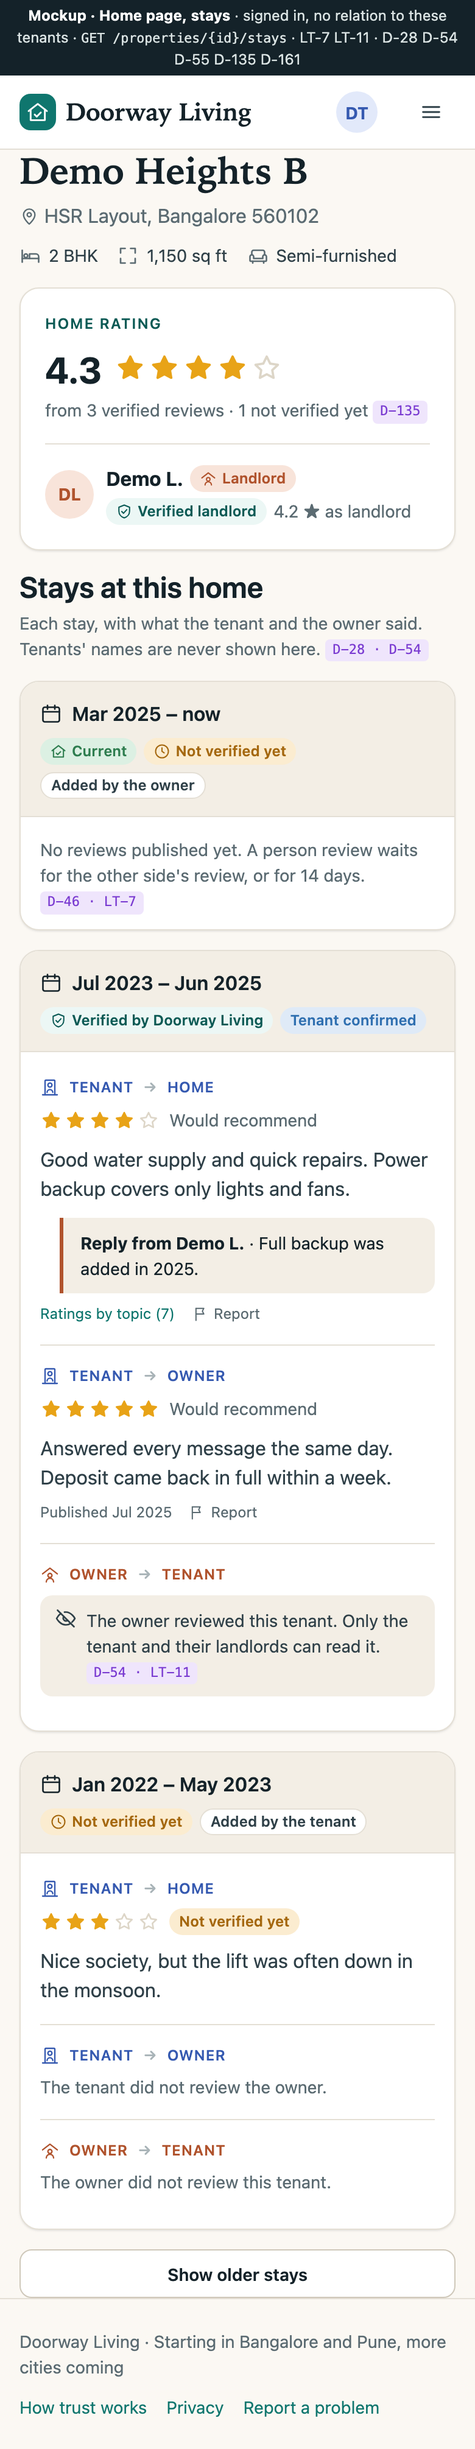
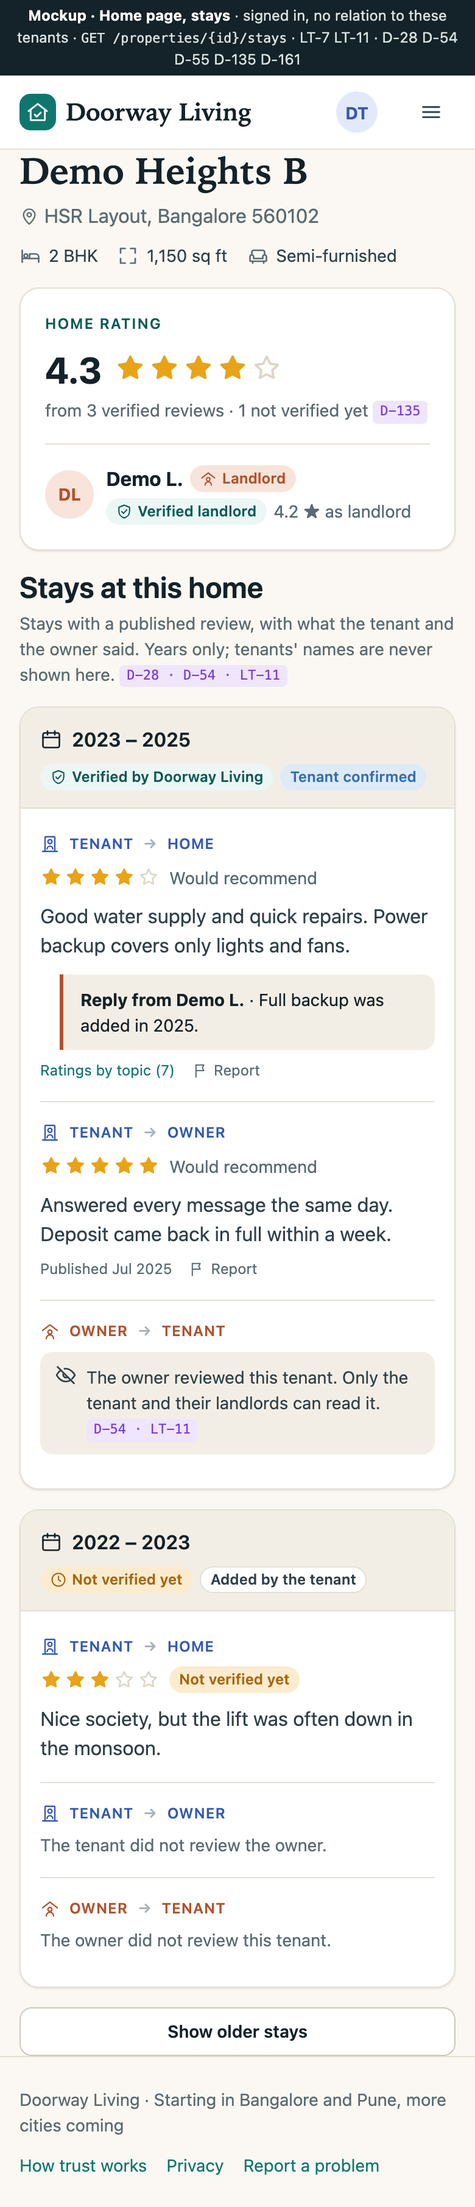
no-mistakes(review): Optional dates, signed-in stays, frozen not-me contact

diff --git a/rentrix-docs/design/mockups/lat-home-stays.html b/rentrix-docs/design/mockups/lat-home-stays.html
@@ -49,20 +49,12 @@
   <section id="reviews" class="stack">
     <div>
       <h2 class="h2">Stays at this home</h2>
-      <p class="small muted" style="margin-top:4px">Each stay, with what the tenant and the owner said. Tenants' names are never shown here. <span class="spec">D-28 · D-54</span></p>
+      <p class="small muted" style="margin-top:4px">Stays with a published review, with what the tenant and the owner said. Years only; tenants' names are never shown here. <span class="spec">D-28 · D-54 · LT-11</span></p>
     </div>
 
     <div class="card stay">
       <div class="stay-h">
-        <div class="when"><i data-icon="calendar" data-size="18"></i>Mar 2025 – now</div>
-        <div class="row" style="gap:6px"><span class="badge badge-success"><i data-icon="tenancy"></i>Current</span><span class="badge badge-warn"><i data-icon="clock"></i>Not verified yet</span><span class="badge badge-plain">Added by the owner</span></div>
-      </div>
-      <div class="stay-b"><p class="none" style="margin-top:12px">No reviews published yet. A person review waits for the other side's review, or for 14 days. <span class="spec">D-46 · LT-7</span></p></div>
-    </div>
-
-    <div class="card stay">
-      <div class="stay-h">
-        <div class="when"><i data-icon="calendar" data-size="18"></i>Jul 2023 – Jun 2025</div>
+        <div class="when"><i data-icon="calendar" data-size="18"></i>2023 – 2025</div>
         <div class="row" style="gap:6px"><span class="badge badge-verified"><i data-icon="shield-check"></i>Verified by Doorway Living</span><span class="badge badge-info">Tenant confirmed</span></div>
       </div>
       <div class="stay-b">
@@ -88,7 +80,7 @@
 
     <div class="card stay">
       <div class="stay-h">
-        <div class="when"><i data-icon="calendar" data-size="18"></i>Jan 2022 – May 2023</div>
+        <div class="when"><i data-icon="calendar" data-size="18"></i>2022 – 2023</div>
         <div class="row" style="gap:6px"><span class="badge badge-warn"><i data-icon="clock"></i>Not verified yet</span><span class="badge badge-plain">Added by the tenant</span></div>
       </div>
       <div class="stay-b">

diff --git a/rentrix-docs/design/landlord-adds-tenant.md b/rentrix-docs/design/landlord-adds-tenant.md
@@ -11,14 +11,14 @@ Decisions proposed here are labelled **LT-1 … LT-12**. Each build PR records t
 
 ## 0. v1 in short
 
-1. An owner adds a tenant to a home they own, at "I own it" or later from the home. Every field is optional: name, email, phone, rent, and (last slice) the dates.
+1. An owner adds a tenant to a home they own, at "I own it" or later from the home. Every field is optional: name, email, phone, dates and rent (from slice S3 on).
 2. The tenancy stands at once (`ACTIVE` or `ENDED`), one-sided, "Not verified yet", as rule B already decided for both sides (D-149).
 3. The email and phone are private. They are used only to link the tenancy to the tenant's account by a **verified** email or phone. The phone is stored only as an HMAC (`ID_HASH_KEY`). The owner never learns whether a link happened.
 4. No account matches? The tenancy keeps `tenant_id = NULL`: that is the **unclaimed tenant**. The tenant claims it later by signing in with that email or by verifying that phone.
 5. The owner reviews the tenant with the existing review form: a new `tenant` part, `LANDLORD_TO_TENANT`, with 5 parameters.
 6. A review about a tenant goes public only when the tenant stands behind the tenancy: they added it, confirmed it, or the team verified it. Then the double-blind reveal of D-46 runs as today.
 7. The tenant profile (`/u/:id`, tenant side) shows the tenant's rating, parameter averages and the reviews from owners, to the people D-54 allows.
-8. The home page gets one "Stays at this home" list: per tenancy, the home review, the owner review and the tenant review, each with its existing visibility rule.
+8. The home page gets one "Stays at this home" list for signed-in viewers: per tenancy, the home review, the owner review and the tenant review, each with its existing visibility rule. Outsiders see only stays with a published review, as a year range. Signed-out viewers see no stays, only the home reviews (as today's rent history, which is signed-in only). The two parties of a stay always see it in full.
 
 ---
 
@@ -99,8 +99,8 @@ The captain lists four reviews: tenant → home, tenant → owner, owner → ten
 | G6 | Linking needs the emailed link, which is never delivered | silent match on a verified email or phone, at add and later | `users.email`, `identity_verifications.value_hmac` |
 | G7 | A fake owner could attach reviews to a real person | a tenant review publishes only on a tenancy the tenant stands behind (LT-7) | D-46 job, `confirmed_at`, the tenancy tick |
 | G8 | The same stay recorded twice | `409 tenancy_exists` with the tenancy to confirm instead | `requireHomeFree`, `requireNoOverlap`, confirm |
-| G9 | The home page shows only home reviews | one read, `GET /properties/{id}/stays`, grouped per stay | `ReviewView`, `ProfileAccess.canSeeTenant` |
-| G10 | Dates are required (`start_date NOT NULL`) | last, optional slice: nullable `start_date`, undated rules (LT-12) | the V12 vendor rebuild pattern |
+| G9 | The home page shows only home reviews | one signed-in read, `GET /properties/{id}/stays`, grouped per stay | `ReviewView`, `ProfileAccess.canSeeTenant` |
+| G10 | Dates are required (`start_date NOT NULL`) | in S3: nullable `start_date`, undated rules (LT-12) | the V12 vendor rebuild pattern |
 
 No new review table, aggregate table or system account is needed. The only new columns are four on `tenancies` (§8).
 
@@ -111,7 +111,7 @@ No new review table, aggregate table or system account is needed. The only new c
 ### 4.1 Linking the tenant
 
 ```
- owner adds tenant {name?, email?, phone?, dates, rent?}
+ owner adds tenant {name?, email?, phone?, dates?, rent?}
         │
         ▼
  tenancy ACTIVE / ENDED at once, one-sided, "Not verified yet"     (LT-1)
@@ -123,6 +123,7 @@ No new review table, aggregate table or system account is needed. The only new c
         │                 ├── "Yes, I rented it" ─▶ confirmed_at: "Tenant confirmed",
         │                 │                         TENANT role added, contact cleared
         │                 └── "Not me" ─▶ unlinked again, link_refused_by = user,
+        │                                 contact frozen, never matched again,
         │                                 their reviews here detach                (LT-4)
         └── no match ─▶ tenant_id NULL = unclaimed tenant                          (LT-5)
                           │ later: Google sign-in with that email, or the same phone verified,
@@ -142,7 +143,7 @@ No new review table, aggregate table or system account is needed. The only new c
 | Matched account lacks the `TENANT` role | Linked anyway. The role is added when they answer "Yes, I rented it" (fresh `accessToken`, as `POST /me/homes` does). Until then no tenant profile exists for them (`tenantVisible` needs the role) |
 | The owner typed their own email or phone | `422 invite_self` on the field, as today |
 | Matched account is deleted, suspended or the unclaimed-homes account | Never linked |
-| Wrong person linked | The person answers "Not me" (LT-4). They are never linked to that tenancy again. The owner sees "Not linked yet", the same words as "no match", so the answer reveals nothing |
+| Wrong person linked | The person answers "Not me" (LT-4). The tenancy is then never matched again, and its contact is frozen: the owner cannot point it at another email or phone, so a refused address can never be re-linked to that stay. To try a new contact, the owner deletes the stay and adds a new one (D-35 add limits apply). The owner sees "Not linked yet", the same words as "no match" |
 | Tenant disputes the facts (dates or rent are wrong) | They answer "Yes, I rented it" only if the stay is theirs, then "Report a problem" (`FAKE_TENANCY` or `OTHER`, SYSTEM_DESIGN §8), or ask the owner to edit. No counter-offer flow (D-34) |
 | Tenant declines a correct link to dodge a bad review | The review detaches and waits, unpublished. The owner can upload the rental agreement so the team verifies the tenancy (D-147), but re-linking that tenant needs an admin link tool, which is not in v1 (§12). v1 accepts this gap: wrongly attaching a review to someone is the worse failure |
 
@@ -170,10 +171,10 @@ No one can add a tenant on an unclaimed home: its owner is the system account, s
 
 | Event | Effect |
 |---|---|
-| Owner edits the tenant contact (LT-9) | Allowed while the tenant has not confirmed. A changed email or phone drops an unconfirmed link and matches again. After "Tenant confirmed": `422 tenant_confirmed` on the contact fields |
+| Owner edits the tenant contact (LT-9) | Allowed while the tenant has not confirmed and no one answered "Not me" (`link_refused_by` is NULL). A changed email or phone drops an unconfirmed link and matches again. After "Tenant confirmed": `422 tenant_confirmed` on the contact fields. After "Not me": `422 contact_frozen`; the owner may delete the stay and add a new one |
 | Owner edits dates or rent | D-156 as today: the creator edits, the tick resets, the edit history keeps it |
 | Owner deletes the tenancy | D-156: refused once the tenant confirmed (`409 confirmed_by_other_side`) or reviewed (`409 tenancy_has_reviews`); otherwise `CANCELLED` and the owner's own tenant review is withdrawn |
-| Tenant answers "Not me" | Unlinked; `link_refused_by` set; a review about them on this tenancy gets `subject_user_id = NULL` and waits again; their own reviews on it are withdrawn (they say they never lived there) |
+| Tenant answers "Not me" | Unlinked; `link_refused_by` set, which freezes the contact and stops all later matching on this tenancy; a review about them on this tenancy gets `subject_user_id = NULL` and waits again; their own reviews on it are withdrawn (they say they never lived there) |
 | Tenant deletes their account | D-58 unchanged: tenancies and reviews stay; the tenant shows as "Deleted user" |
 | Owner deletes their account | D-58: the home moves to the unclaimed account; tenancies stay with "Deleted user". New: `tenant_name`, `invite_phone_hmac` and `invite_phone_last4` are cleared with `invite_email`, so an unclaimed tenancy of a deleted owner can never be linked |
 | Admin voids the tenancy | D-36 unchanged: all its reviews leave the aggregates and the stays list |
@@ -189,7 +190,7 @@ No one can add a tenant on an unclaimed home: its owner is the system account, s
 | Tenant name the owner typed | `tenant_name`, ≤ 80 characters | the owner and admins only. The public never sees it; the linked tenant sees "as you were named: …" so they can recognise the stay | as the email |
 | Who matched | `tenant_id` | the linked tenant; the owner only after "Tenant confirmed" (then the tenant's short name, D-28) | — |
 
-- Matching is silent. No answer, status or timing tells the owner whether an email or phone has an account. "Not linked yet" covers no match, two matches and "Not me".
+- Matching is silent. No answer, status or timing tells the owner whether an email or phone has an account. "Not linked yet" covers no match, two matches and "Not me". One exception: after "Not me" a contact edit answers `422 contact_frozen`, so an owner who tries to edit learns that someone refused. v1 accepts this, because it is what stops an owner from re-pointing a stay at a person who refused it.
 - No `ID_HASH_KEY` set: the phone field is hidden, like the Truecaller button (D-138).
 - Logs never hold the typed email or phone; they log the tenancy id only (as D-65 masks recipients).
 - Contact is used only to link (and later to send one invite when `SmtpEmailSender` exists). It is never in a public response, a search, a card or a review (D-57).
@@ -217,16 +218,22 @@ No one can add a tenant on an unclaimed home: its owner is the system account, s
 
 ## 7. What the home page shows
 
-`GET /properties/{id}/stays` (public; LT-11) returns the standing, dated tenancies of the home (`ACTIVE`, `ENDED`; not `CANCELLED` or `VOIDED`), newest first, 20 per page. Each stay is keyed by its period, never by a tenancy id (D-28): `{period, verification, ownerConfirmed, tenantConfirmed, addedBy: OWNER|TENANT, home, owner, tenant, mine}`. Each review is the existing `ReviewView` under its existing rule. The web section "Stays at this home" replaces "What tenants say about the home" and keeps the `#reviews` anchor of D-161.
+`GET /properties/{id}/stays` (signed in only, `401` signed out, as rent history; LT-11) returns the standing tenancies of the home (`ACTIVE`, `ENDED`; not `CANCELLED` or `VOIDED`; undated ones only to their parties), newest first, 20 per page. Each stay is keyed by its period, never by a tenancy id (D-28): `{period, verification, ownerConfirmed, tenantConfirmed, addedBy: OWNER|TENANT, home, owner, tenant, mine}`. Each review is the existing `ReviewView` under its existing rule. The web section "Stays at this home" replaces "What tenants say about the home" for signed-in viewers and keeps the `#reviews` anchor of D-161.
 
-| Viewer | ① home review | ② review of the owner | ③ review of the tenant | Tenant identity |
-|---|---|---|---|---|
-| Signed out | full (D-161) | `{exists}`: "Sign in to read the review of the owner" | `{exists}` only | never |
-| Signed in, no relation | full | full once published (D-55) | `{exists}`: "The owner reviewed this tenant. Only the tenant and their landlords can read it." | never |
-| The stay's tenant | full; "Your review" actions | full; their own review with actions | full once published; while it waits only "A review about you is waiting" (D-46) | themselves |
-| The home's owner | full; reply action | full; reply action | full; "Your review" actions | after "Tenant confirmed": short name |
-| A landlord D-54 allows (an open enquiry from this tenant, or this tenant's landlord elsewhere) | full | full | full | never on the home page; the tenant profile shows it |
-| Admin (admin host only) | full | full | full | full |
+What a viewer sees of the stays themselves (the period is the part that could identify a tenant, §12):
+
+- **The stay's two parties** (its tenant and the home's owner) and admins: every stay they are party to, in full. `period` is month-precise with `current: true` for a running stay ("Mar 2025 – now · Current"). An undated stay shows "Dates not given".
+- **Every other signed-in viewer**: only stays with at least one published review. `period` is a year range `{fromYear, toYear}` ("2023 – 2025"), never a month and never `current`. A running stay shows the current year as `toYear`, so it reads like any stay that ended this year.
+- **Signed out**: no stays list, no periods and no current occupancy. The page keeps today's "What tenants say about the home" list (D-161) with "Sign in to see the stays at this home".
+
+| Viewer | Stays listed | ① home review | ② review of the owner | ③ review of the tenant | Tenant identity |
+|---|---|---|---|---|---|
+| Signed out | none | full, in today's list (D-161) | not shown | not shown | never |
+| Signed in, no relation | with a published review; year range | full | full once published (D-55) | `{exists}`: "The owner reviewed this tenant. Only the tenant and their landlords can read it." | never |
+| The stay's tenant | their own in full; others as "no relation" | full; "Your review" actions | full; their own review with actions | full once published; while it waits only "A review about you is waiting" (D-46) | themselves |
+| The home's owner | all stays on the home, in full | full; reply action | full; reply action | full; "Your review" actions | after "Tenant confirmed": short name |
+| A landlord D-54 allows (an open enquiry from this tenant, or this tenant's landlord elsewhere) | as "no relation" | full | full | full | never on the home page; the tenant profile shows it |
+| Admin (admin host only) | all, in full | full | full | full | full |
 
 `{exists}` is sent only for published reviews. A waiting review is invisible to everyone except its author and the bare "pending" stub for its subject (D-46).
 
@@ -241,14 +248,16 @@ No one can add a tenant on an unclaimed home: its owner is the system account, s
 | `POST /tenancies/{id}/review-form` takes `tenant?: Part` (landlord side); `ReviewFormView.tenant`. At least one part, as today | S1 |
 | `ReviewCriterion` gains the 5 tenant parameters; `GET /users/{id}` `tenantRating` gains `criteria` and `recommend` (`RatingBreakdowns.forTenant`) | S1, S2 |
 | `GET /me/review-tasks`: a task's `counterparty` may be `{id: null, shortName: "Your tenant"}` for an unclaimed tenant | S1 guard, S3 |
-| `POST /tenancies` by the home's owner: `counterpartyEmail` and `initialRentInr` optional; new optional `counterpartyPhone`, `counterpartyName`; answers `ACTIVE`/`ENDED`, no invite expiry | S3 |
+| `POST /tenancies` by the home's owner: `counterpartyEmail`, `initialRentInr`, `startDate` and `endDate` optional; new optional `counterpartyPhone`, `counterpartyName`; answers `ACTIVE`/`ENDED`, no invite expiry | S3 |
 | `409 tenancy_exists {tenancyId}` from owner add and from `recordOwn`, only to a party of that tenancy | S3 (owner), S4 (tenant) |
 | `POST /tenancies/{id}/confirm` also works on a one-sided `ACTIVE`/`ENDED` tenancy by the other party: sets `confirmed_at` ("Tenant confirmed" / "Owner confirmed", D-149) | S3 |
-| `POST /tenancies/{id}/not-me` by a linked tenant who has not confirmed, on a tenancy without the tick: unlink (§4.4); never gated | S3 |
+| `POST /tenancies/{id}/not-me` only on a tenancy with `initiated_by = LANDLORD` that the caller was linked to by matching the owner's typed contact (silent match or invite claim), not yet confirmed by the caller and without the tick: unlink (§4.4); never gated. On a tenancy the tenant started: `409 invalid_transition` | S3 |
 | `TenancyView` gains `tenantLabel` (the typed name, owner only), `invitePhone` (masked, next to the existing masked `inviteEmail`), `linkState: NONE \| WAITING \| CONFIRMED` (owner: `WAITING` covers both "linked, not confirmed" and "not linked"), `actions.confirm`, `actions.notMe` | S3 |
-| `PATCH /tenancies/{id}` takes `tenant {name?, email?, phone?}` (LT-9) | S3 |
-| Link on sign-in and on phone verify: a `ContactVerified(userId)` event from `AuthService` and the phone methods; a `TenantLinker` listener links matching unclaimed tenancies in the same transaction | S4 |
-| `GET /properties/{id}/stays` (§7) | S5 |
+| `PATCH /tenancies/{id}` takes `tenant {name?, email?, phone?}` (LT-9). A changed email or phone answers `422 tenant_confirmed` after the tenant confirmed and `422 contact_frozen` after "Not me" (`link_refused_by` set) | S3 |
+| `POST /tenancy-invites/claim` also accepts a one-sided `ACTIVE`/`ENDED` owner-started tenancy with `tenant_id` NULL, so invite tokens sent before S3 keep working. It refuses a tenancy with `link_refused_by` set | S3 |
+| An undated tenancy (no `startDate`): left out of rent history, overlap checks and the stays of non-parties; its review needs a move-in month first (`422 start_date_required`; the form's Stay step asks for it) | S3 |
+| Link on sign-in and on phone verify: a `ContactVerified(userId)` event from `AuthService` and the phone methods; a `TenantLinker` listener links matching unclaimed tenancies in the same transaction, skipping any with `link_refused_by` set | S4 |
+| `GET /properties/{id}/stays` (§7), signed in only; periods as year ranges and only reviewed stays for non-parties | S5 |
 | `POST /me/homes` with `relation=OWN` stays address-only; the web continues to "Add your tenant (optional)" with `POST /tenancies` | S4 |
 
 ### 8.2 Database (Flyway, next free version when each PR merges; master is at V17)
@@ -259,9 +268,10 @@ No one can add a tenant on an unclaimed home: its owner is the system account, s
   - `ALTER TABLE tenancies ADD COLUMN invite_phone_hmac CHAR(64);`
   - `ALTER TABLE tenancies ADD COLUMN invite_phone_last4 VARCHAR(4);`
   - `ALTER TABLE tenancies ADD COLUMN link_refused_by BIGINT REFERENCES users (id);` plus `db/vendor/mysql/V<n>_1__tenant_contact_fks.sql` for the foreign key (MySQL ignores inline `REFERENCES`, D-114)
+  - `start_date` nullable through the vendor rebuild files, as V12 did for the rent
   - `CREATE INDEX ix_tenancies_invite_email ON tenancies (invite_email);` and `ix_tenancies_invite_phone ON tenancies (invite_phone_hmac);` for the later match
-  - data: owner-started `PENDING_CONFIRMATION` rows become `ACTIVE`, or `ENDED` with an end date, without `confirmed_at` (the owner half of B20's planned move). Their invite tokens stay usable as links.
-- **S6** (optional) `V<n>__optional_tenancy_start.sql`: `start_date` nullable through the vendor rebuild files, as V12 did for the rent.
+  - data: owner-started `PENDING_CONFIRMATION` rows become `ACTIVE`, or `ENDED` with an end date, without `confirmed_at` (the owner half of B20's planned move). Their invite tokens stay usable as links: S3 widens the claim to these rows (§8.1).
+- **S6**: no migration.
 
 ---
 
@@ -273,12 +283,12 @@ Each slice is small, ships alone, needs no flag and no flag day, and keeps every
 |---|---|---|---|---|
 | **S1** (a) Owner reviews own tenants | "Review your tenant" on tenancies the owner already has: tenant-recorded stays on their home and confirmed invites | `tenant` form part, 5 criteria, review-task and recompute NULL guards | form part "The tenant" (owner copy), CTA on `TenancyPage` / `TenancyCard` in Owner mode, draft key `rx-review-draft:<tenancyId>:LANDLORD` | none |
 | **S2** (b) Tenant profile | `/u/:id` shows the tenant side: rating, "The tenant by topic", "Would rent to them again", "What owners say"; links from the owner's confirmed tenancy and from the tenant's MyReviews | `RatingBreakdowns.forTenant` in `GET /users/{id}` | `UserProfile.tenantRating`, a tenant section in `LandlordPage` | none |
-| **S3** (c1) Owner adds a tenant | the "Add a tenant" form with every field optional except the dates; stands at once; silent link at add; "Is this you?" for the tenant; LT-7 reveal; `409 tenancy_exists` on owner add | `TenancyService.create` owner branch, `not-me`, confirm on one-sided rows, contact columns, reveal filter, deletion erase list | `TenancyRequestPage` becomes "Add a tenant"; tenant card "Is this you?"; copy of D-153 ("Nothing is public until both sides confirm" goes) | `V<n>__tenant_contact.sql` |
+| **S3** (c1) Owner adds a tenant | the "Add a tenant" form with every field optional, dates included; stands at once; silent link at add; "Is this you?" for the tenant; LT-7 reveal; `409 tenancy_exists` on owner add; undated stays (LT-12) | `TenancyService.create` owner branch, `not-me`, confirm on one-sided rows, claim on one-sided owner rows, contact columns and freeze, reveal filter, undated guards, deletion erase list | `TenancyRequestPage` becomes "Add a tenant" with optional dates; tenant card "Is this you?"; move-in month in the review form's Stay step; copy of D-153 ("Nothing is public until both sides confirm" goes) | `V<n>__tenant_contact.sql` (with nullable `start_date`) |
 | **S4** (c2) Unclaimed tenant claims later | link at Google sign-in and phone verify; the tenant's add-home dedupe; "Add your tenant (optional)" after "I own it" | `ContactVerified` + `TenantLinker`; `recordOwn` `409 tenancy_exists` | add-home OWN continues to the tenant step; "Your owner already added this stay" | none |
 | **S5** (d) Whole picture on the home page | "Stays at this home": every direction per stay (§7) | `GET /properties/{id}/stays` | stays section replaces the home review list, keeps `#reviews` and the author actions | none |
-| **S6** (e, optional) Dates optional | an owner may skip the dates; an undated stay holds no dates, is not listed in stays or rent history, and must get a move-in month before its review (the form's first step asks for it) | nullable `start_date` and the undated guards | date fields optional | `V<n>__optional_tenancy_start.sql` |
+| **S6** (e, later) Undated polish | "Add the move-in month" nudge on undated tenancy cards and the owner dashboard. Nothing in v1 needs it | none | the nudge | none |
 
-S1 and S2 can ship in either order. S3 needs S1 only for the owner's CTA copy. S5 needs S3 for owner-added stays but works with today's data too. Master may drop S6: it touches every date rule (D-23, D-39, rent history) for one optional field.
+S1 and S2 can ship in either order. S3 needs S1 only for the owner's CTA copy. S5 needs S3 for owner-added stays but works with today's data too.
 
 ---
 
@@ -310,13 +320,13 @@ API tests in `rentrix-server` for each rule above, and Playwright e2e at 390 px 
 |---|---|
 | `owner-reviews-tenant.spec.ts` (S1) | Owner mode → tenancy → "Review your tenant" → 5 parameters → overall → submit → "Waiting for the other side"; tenant reviews the owner → both publish; owner's "Reviews you wrote of tenants" lists it; no horizontal scroll at 390 px |
 | `tenant-profile.spec.ts` (S2) | owner with access opens `/u/:id` and sees "What owners say"; a stranger gets the not-found page (D-54, D-60); the tenant sees their own |
-| `add-tenant.spec.ts` (S3) | add with no contact → `ACTIVE`, "Not linked yet"; add with a seeded tenant's email → the owner still sees the masked email; tenant signs in → "Is this you?" → "Yes, I rented it" → "Tenant confirmed" and the owner sees the short name; "Not me" → unlinked; old "Invite a tenant" deep link still works |
+| `add-tenant.spec.ts` (S3) | add with no contact and no dates → `ACTIVE`, "Not linked yet", "Dates not given"; add with a seeded tenant's email → the owner still sees the masked email; tenant signs in → "Is this you?" → "Yes, I rented it" → "Tenant confirmed" and the owner sees the short name; "Not me" → unlinked; old "Invite a tenant" deep link still works |
 | `tenant-review-backing.spec.ts` (S3) | owner reviews an unlinked tenant → "Waiting for the other side" and nothing on the tenant's side; after link and "Yes, I rented it" the tenant sees "A review about you is waiting"; the tenant reviews the owner → both publish. The 14-day path is an API test (the reveal job is called directly, D-08) |
 | `claim-later.spec.ts` (S4) | owner adds an email with no account; a new user signs up with it → linked; the tenant's "Add your home" on that home → "Your owner already added this stay"; "I own it" → "Add your tenant (optional)" |
-| `home-stays.spec.ts` (S5) | the §7 matrix: signed out, signed-in stranger, tenant, owner; the tenant's name never appears for outsiders; `#reviews` still opens the author's review |
+| `home-stays.spec.ts` (S5) | the §7 matrix: signed out sees no stays and no periods; a signed-in stranger sees only reviewed stays, as year ranges, with no "Current"; the tenant and the owner see their stays in full; the tenant's name never appears for outsiders; `#reviews` still opens the author's review |
 | existing specs | `invite-form`, `review-form`, `review-visible`, `tenancy-overlap`, `edit-own-entries`, `delete-account`, `mode-switch` stay green in every slice |
 
-API tests to add, beyond the e2e: phone match with one, two and zero accounts; email and phone on different accounts; `invite_self`; deleted or suspended match; `link_refused_by` blocks re-link; pros/cons `not_allowed` on the tenant part; `wrong_direction` for a tenant using the tenant part; NULL-subject review edit and withdraw; the S3 data migration on `PENDING_CONFIRMATION` owner rows; owner deletion clears the new columns; logs never contain the typed contact.
+API tests to add, beyond the e2e: phone match with one, two and zero accounts; email and phone on different accounts; `invite_self`; deleted or suspended match; after "Not me" no later match or invite claim re-links the tenancy, and a contact `PATCH` answers `422 contact_frozen` (owner edits A → B → A cannot re-link A); `not-me` on a tenant-started tenancy answers `409 invalid_transition` and leaves its owner review published; an invite token issued before S3 still claims the migrated `ACTIVE` row; an undated stay is left out of rent history, overlap and a stranger's stays, and its review answers `422 start_date_required` until a move-in month is set; `GET /properties/{id}/stays` answers `401` signed out and returns year ranges without `current` to a stranger; pros/cons `not_allowed` on the tenant part; `wrong_direction` for a tenant using the tenant part; NULL-subject review edit and withdraw; the S3 data migration on `PENDING_CONFIRMATION` owner rows; owner deletion clears the new columns; logs never contain the typed contact.
 
 ---
 
@@ -326,7 +336,8 @@ API tests to add, beyond the e2e: phone match with one, two and zero accounts; e
 - **For master to confirm** (the design assumes the first option):
   1. Tenant reviews publish only on tenant-backed tenancies (LT-7). The mirror for owners, where a review about an owner who never confirmed publishes after 14 days, stays as today.
   2. Outsiders see only "The owner reviewed this tenant" on the home page, not its stars or text (§7, D-54). The open flat number (D-140) and the stay period would let neighbours identify the tenant.
-  3. Undated stays (S6) are optional and last.
+  3. Stays on the home page are signed-in only, and outsiders see only stays with a published review, as year ranges, never "Current" (§7, LT-11). This is the conservative default, matching today's signed-in-only rent history. Master can loosen it.
+- **Later option**: a per-user refusal list, so a person who answered "Not me" is never matched to any stay of that owner again. v1 freezes only the refused stay's contact (LT-4, LT-9).
 
 ---
 
@@ -335,12 +346,12 @@ API tests to add, beyond the e2e: phone match with one, two and zero accounts; e
 - **LT-1** An owner's tenancy stands at once, one-sided (owner half of D-149); the tenant's confirmation is the optional `confirmed_at`.
 - **LT-2** Tenant contact is optional and private: email as today, phone only as HMAC + last 4, a private name label; cleared when the tenant confirms.
 - **LT-3** Silent matching on a verified email or phone, exactly one account, no clash, never the owner; the owner cannot tell whether it matched.
-- **LT-4** The linked tenant answers "Yes, I rented it" (adds `TENANT`) or "Not me" (unlink, never re-linked to them).
+- **LT-4** The linked tenant answers "Yes, I rented it" (adds `TENANT`) or "Not me". "Not me" exists only on owner-started tenancies (`initiated_by = LANDLORD`) the tenant was linked to by matching. It unlinks, freezes the contact and stops all later matching on that tenancy.
 - **LT-5** An unclaimed tenant is `tenant_id = NULL`; no system account.
 - **LT-6** The review form's `tenant` part with `RENT_ON_TIME`, `CARE_OF_HOME`, `COMMUNICATION`, `HOUSE_RULES`, `MOVE_OUT`; no pros or cons on it.
 - **LT-7** An owner → tenant review publishes only on a tenant-backed tenancy; then D-46.
 - **LT-8** The same stay recorded twice answers `409 tenancy_exists`, and the other side confirms instead.
-- **LT-9** The owner edits the tenant contact until the tenant confirms.
+- **LT-9** The owner edits the tenant contact until the tenant confirms or anyone answers "Not me" (`422 contact_frozen`); then the owner can only delete the stay and add a new one.
 - **LT-10** Account deletion also clears `tenant_name` and the phone columns.
-- **LT-11** `GET /properties/{id}/stays` shows every direction per stay under its existing visibility rule; tenant identity never on the home page for outsiders.
-- **LT-12** (optional) Undated stays: no dates held, no listing, a move-in month before the review.
+- **LT-11** `GET /properties/{id}/stays` (signed in only) shows every direction per stay under its existing visibility rule. Outsiders see only stays with a published review, as year ranges without month or "Current"; the two parties see their own stays in full; tenant identity never on the home page for outsiders.
+- **LT-12** Dates are optional from S3: an undated stay holds no dates, is left out of rent history, overlap checks and the stays of non-parties, and needs a move-in month before its review.
